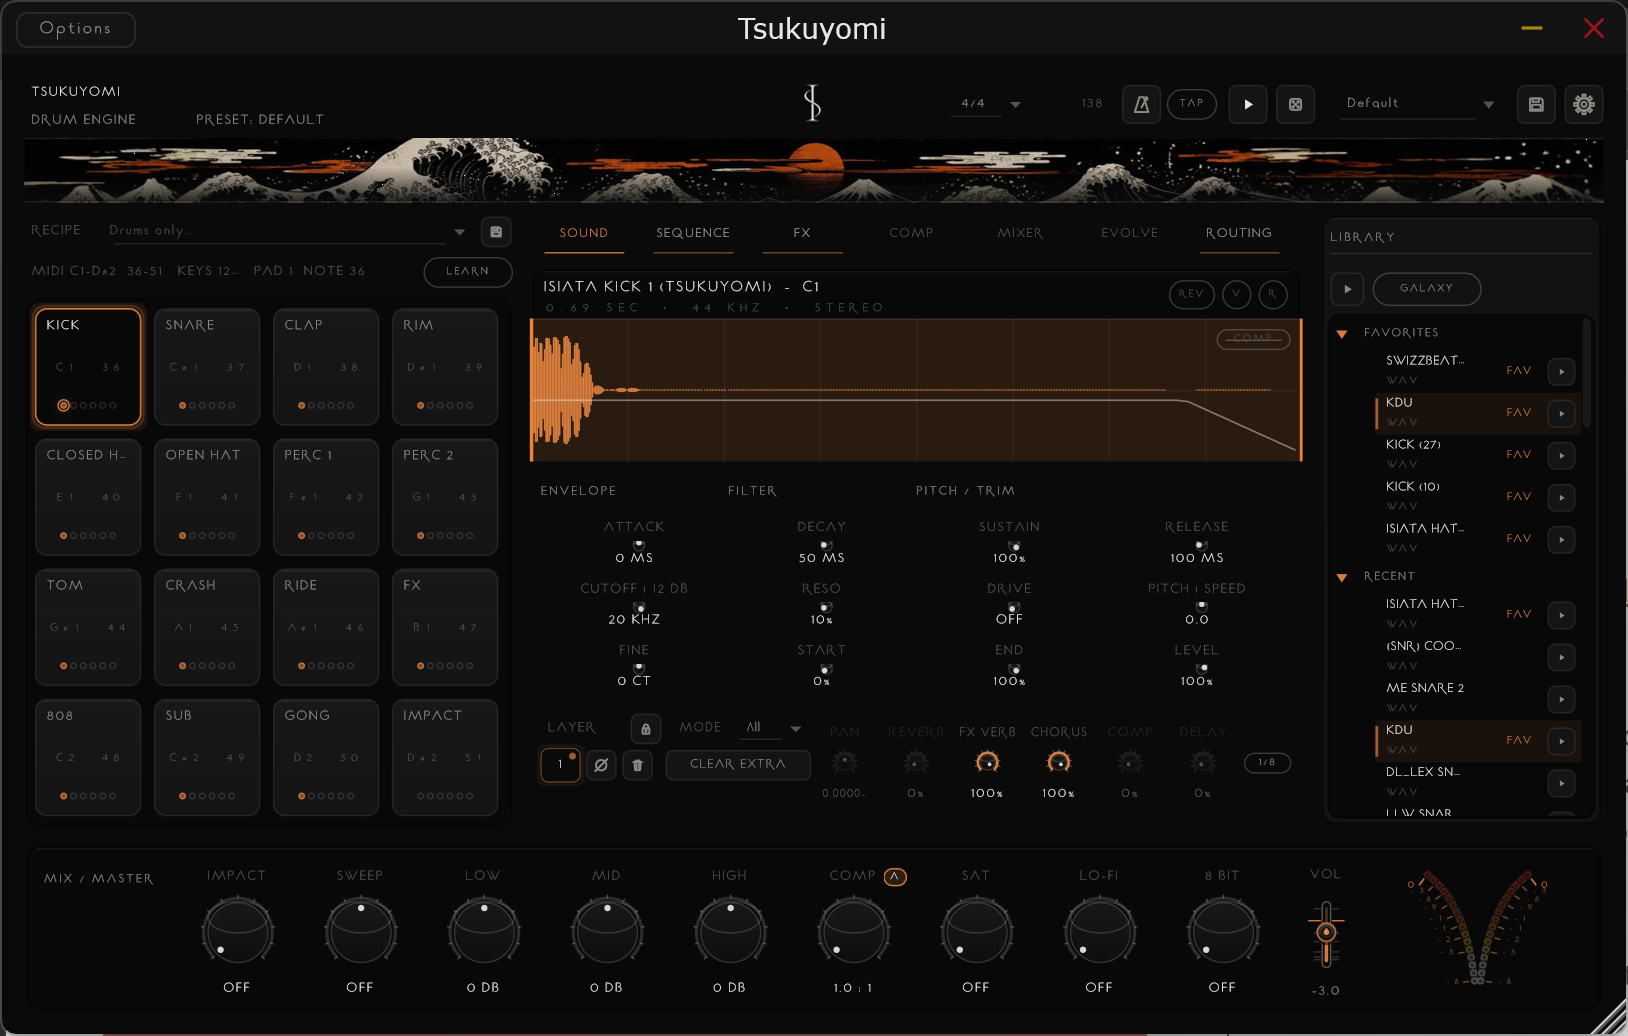
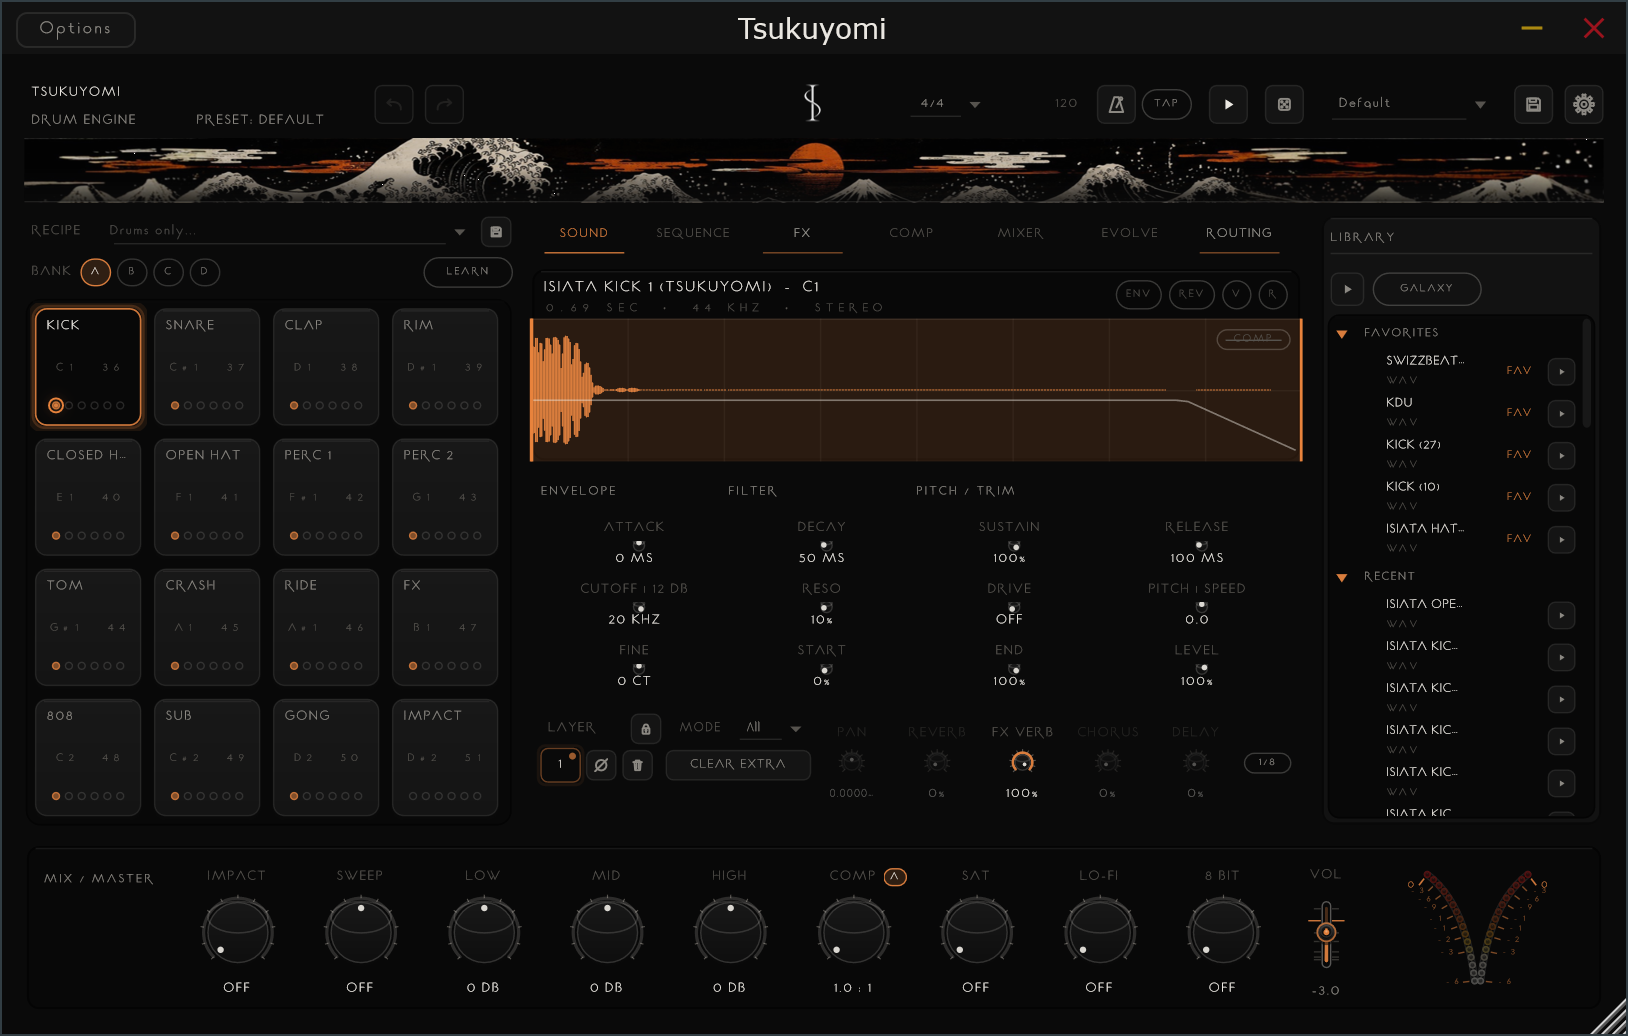
Refresh plugin screenshots from Release builds; add drum engine bank A-D shots

diff --git a/src/lib/tools/plugins.ts b/src/lib/tools/plugins.ts
@@ -56,31 +56,31 @@ export type PluginSpec = {
 
 /** Product screenshots in /public/Plugin Screenshots, named after each plugin. */
 const SCREENSHOT_SIZES: Record<string, [number, number]> = {
-  'IA2A': [780, 520],
+  'IA2A': [1284, 956],
   'ISI Bass': [1180, 856],
   'Isynth 7': [1180, 786],
-  'IPI': [880, 560],
-  'ISI 76': [780, 520],
+  'IPI': [1444, 1036],
+  'ISI 76': [1284, 956],
   'ISI Pandora': [1060, 560],
-  'Icarus': [780, 520],
-  'Iseve 1095': [880, 560],
-  'Isheen': [780, 520],
-  'IsiTech': [880, 560],
-  'Isibox': [780, 520],
-  'Tsukuyomi 8 Bit': [380, 440],
-  'Tsukuyomi Chorus': [760, 440],
-  'Tsukuyomi Tri Comp': [860, 440],
-  'Tsukuyomi Compressor': [1050, 675],
-  'Tsukuyomi Delay': [760, 520],
+  'Icarus': [1284, 956],
+  'Iseve 1095': [1444, 1036],
+  'Isheen': [1284, 956],
+  'IsiTech': [1444, 1036],
+  'Isibox': [1284, 956],
+  'Tsukuyomi 8 Bit': [604, 836],
+  'Tsukuyomi Chorus': [1124, 836],
+  'Tsukuyomi Tri Comp': [1444, 916],
+  'Tsukuyomi Compressor': [1804, 1316],
+  'Tsukuyomi Delay': [1124, 836],
   'Tsukuyomi Drum Engine': [1628, 1036],
-  'Tsukuyomi FX': [900, 640],
-  'Tsukuyomi Flanger': [760, 440],
-  'Tsukuyomi Lo-Fi': [380, 440],
-  'Tsukuyomi Phaser': [760, 440],
-  'Tsukuyomi Reverb': [760, 520],
-  'Tsukuyomi Soft Clip': [760, 440],
-  'Tsukuyomi Sound': [900, 640],
-  'Tsukuyomi Stutter': [760, 520],
+  'Tsukuyomi FX': [1444, 1156],
+  'Tsukuyomi Flanger': [1124, 836],
+  'Tsukuyomi Lo-Fi': [604, 836],
+  'Tsukuyomi Phaser': [1124, 836],
+  'Tsukuyomi Reverb': [1124, 836],
+  'Tsukuyomi Soft Clip': [1124, 836],
+  'Tsukuyomi Sound': [1524, 1176],
+  'Tsukuyomi Stutter': [1124, 836],
   'IPI Strip': [2320, 1600],
   'Iseve Strip': [2320, 1600],
   'IsiTech Strip': [2320, 1600],
@@ -102,29 +102,29 @@ const SCREENSHOT_SIZES: Record<string, [number, number]> = {
 /** Bump a plugin's number when its screenshot file is replaced. Browsers keep these images for
  *  hours, so a new ?v= makes them fetch the new file instead of showing the old one. */
 const SCREENSHOT_VERSIONS: Record<string, number> = {
-  'IA2A': 3,
+  'IA2A': 4,
   'ISI Bass': 3,
   'Isynth 7': 1,
-  'IPI': 2,
-  'ISI 76': 3,
+  'IPI': 3,
+  'ISI 76': 4,
   'ISI Pandora': 2,
-  'Icarus': 2,
-  'Iseve 1095': 2,
-  'Isheen': 2,
-  'IsiTech': 2,
-  'Isibox': 2,
-  'Tsukuyomi 8 Bit': 2,
-  'Tsukuyomi Chorus': 2,
-  'Tsukuyomi Tri Comp': 2,
-  'Tsukuyomi Compressor': 2,
-  'Tsukuyomi Delay': 3,
-  'Tsukuyomi FX': 2,
-  'Tsukuyomi Flanger': 2,
-  'Tsukuyomi Lo-Fi': 2,
-  'Tsukuyomi Phaser': 2,
-  'Tsukuyomi Reverb': 2,
-  'Tsukuyomi Soft Clip': 2,
-  'Tsukuyomi Stutter': 2,
+  'Icarus': 3,
+  'Iseve 1095': 3,
+  'Isheen': 3,
+  'IsiTech': 3,
+  'Isibox': 3,
+  'Tsukuyomi 8 Bit': 3,
+  'Tsukuyomi Chorus': 3,
+  'Tsukuyomi Tri Comp': 3,
+  'Tsukuyomi Compressor': 3,
+  'Tsukuyomi Delay': 4,
+  'Tsukuyomi FX': 3,
+  'Tsukuyomi Flanger': 3,
+  'Tsukuyomi Lo-Fi': 3,
+  'Tsukuyomi Phaser': 3,
+  'Tsukuyomi Reverb': 3,
+  'Tsukuyomi Soft Clip': 3,
+  'Tsukuyomi Stutter': 3,
   'IPI Strip': 3,
   'Iseve Strip': 3,
   'IsiTech Strip': 3,
